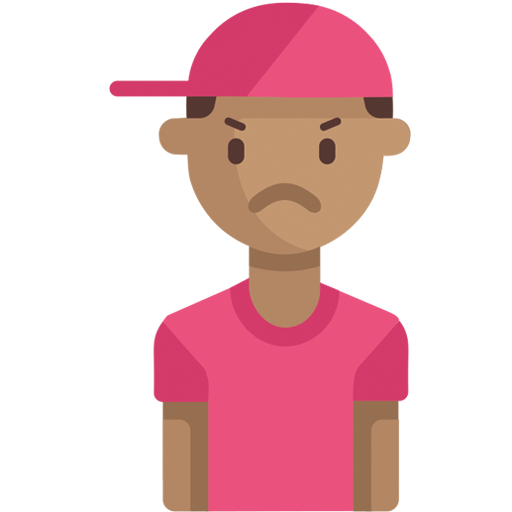
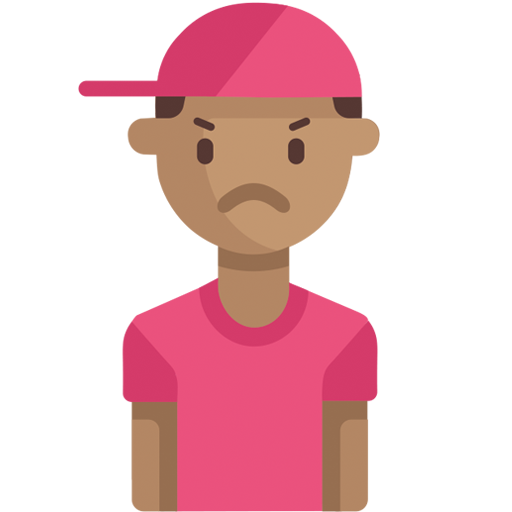
Slight changes like player images and board size

Changed region(s): [[0.2188, 0.0, 0.8125, 1.0], [0.1562, 0.1562, 0.2188, 0.1875]]

diff --git a/assets/css/game.css b/assets/css/game.css
@@ -7,6 +7,7 @@
 /* GENERAL STYLES */
 body{
   background-color: #dff9fb;
+  overflow-x: hidden;
 }
 
 h1, h2, p{
@@ -19,14 +20,16 @@ h1, h2, p{
   width: 100vw;
 }
 
-.left, .mid, .right{
+.player-info, .mid{
   height: 100vh;
+  min-height: 750px; /* Because the board will never be less high than 750px; */
 }
 
 /* PLAYER WEAPON */
 
 .player-weapon{
-  height: 300px;
+  width: 100%;
+  height: 20%;
   display: flex;
   justify-content: center;
   align-items: center;
@@ -48,7 +51,7 @@ h1, h2, p{
 /* PLAYER ACTIONS */
 
 .player-actions{
-  height: 150px;
+  height: 15%;
   display: flex;
   justify-content: center;
   align-items: center;
@@ -57,15 +60,16 @@ h1, h2, p{
 /* PLAYER HEALTH */
 
 .player-health{
-  height: 75px;
+  height: 15%;
   display: flex;
   justify-content: center;
+  overflow: hidden;
 }
 
 .progress{
   margin-top: 10px;
   height: 20px;
-  width: 100%;
+  max-width: 100%;
   max-width: 200px;
 }
 
@@ -76,55 +80,72 @@ h1, h2, p{
 }
 
 /* PLAYER IMAGES */
-
-.son, .daughter{
+.player-image{
+  max-width: 100%;
+  overflow: hidden;
   position: absolute;
   bottom: 0;
 }
 
-.son img, .daughter img{
+.player-image img{
   width: 100%;
   max-width: 400px;
   z-index: -1;
+  margin: 0 auto;
 }
 
 @media screen and (max-height: 750px) {
-  .son img, .daughter img{
-    opacity: 0.3;
+  .player-weapon{
+    height: 20%;
+  }
+
+  .player-actions{
+    height: 20%;
+  }
+
+  .player-health{
+    height: 30%;
   }
 }
 
 /* GAME BOARD */
 .mid{
-  display: flex;
-  align-items: center;
-  justify-content: center;
+
 }
 
 .board{
-  height: 750px;
-  width: 750px;
+  width: 100%;
+  max-width: 750px;
   padding: 10px;
+  margin: 50px auto;
   border: 5px solid #7f5122;
 }
 
 .board-row{
   display: flex;
   justify-content: space-between;
-  height: 10%;
 }
 
 .col{
   border: 1px solid #e9e9e9;
   width: 10%;
-  height: 100%;
   display: inline-block;
 }
 
 /* COL STATES */
 .empty{} /* TODO:  */
-.player1{} /* TODO:  */
-.player2{} /* TODO:  */
+.blocked{} /* TODO:  */
+.player1{
+  background-image: url(../../media/game/players/player1.png);
+  background-size: cover;
+  background-color: rgba(235, 82, 125, .3);
+}
+
+.player2{
+  background-image: url(../../media/game/players/player2.png);
+  background-size: cover;
+  background-color: rgba(152, 214, 235, .6);
+}
 
 .player1-next{
   background-color: rgba(235, 82, 125, .3);
@@ -159,6 +180,10 @@ h1, h2, p{
 .weapon-towel{
   background-image: url(../../media/game/weapons/towel.png);
   background-size: cover;
+}
+
+.obstacle{
+  background-color: rgba(235, 82, 125, 1);
 }
 
 .obstacle-baby{

diff --git a/game.html b/game.html
@@ -15,7 +15,7 @@
     <div class="game-wrapper">
       <div class="container-fluid">
         <div class="row">
-          <div class="col-xs-3 left">
+          <div class="col-xs-3 player-info">
             <div class="player-weapon">
               <div class="player-weapon-container">
                 <div id="player1-weapon-image"></div>
@@ -39,8 +39,8 @@
               </div>
             </div>
 
-            <div class="son">
-              <img src="media/landing-page/son-angry.png" alt="">
+            <div class="player-image">
+              <center><img src="media/landing-page/son-angry.png" alt=""></center>
             </div>
           </div>
 
@@ -63,7 +63,7 @@
                 <div class="col obstacle-baby"></div>
                 <div class="col obstacle-closet"></div>
                 <div class="col obstacle-washing"></div>
-                <div class="col"></div>
+                <div class="col obstacle"></div>
                 <div class="col"></div>
                 <div class="col"></div>
                 <div class="col"></div>
@@ -72,8 +72,8 @@
                 <div class="col"></div>
               </div>
               <div class="board-row">
-                <div class="col"></div>
-                <div class="col"></div>
+                <div class="col player1"></div>
+                <div class="col player2"></div>
                 <div class="col"></div>
                 <div class="col"></div>
                 <div class="col"></div>
@@ -171,7 +171,7 @@
             </div>
           </div>
 
-          <div class="col-xs-3 right">
+          <div class="col-xs-3 player-info">
             <div class="player-weapon">
               <div class="player-weapon-container">
                 <div id="player2-weapon-image"></div>
@@ -195,8 +195,8 @@
               </div>
             </div>
 
-            <div class="son">
-              <img src="media/landing-page/daughter-angry.png" alt="">
+            <div class="player-image">
+              <center><img src="media/landing-page/daughter-angry.png" alt="" id></center>
             </div>
           </div>
         </div>
@@ -205,5 +205,6 @@
     </div>
     <!-- SCRIPTS -->
     <script src="https://ajax.googleapis.com/ajax/libs/jquery/3.2.1/jquery.min.js" charset="utf-8"></script>
+    <script src="assets/js/playBoardStyle.js" charset="utf-8"></script>
   </body>
 </html>

diff --git a/assets/js/playBoardStyle.js b/assets/js/playBoardStyle.js
@@ -1,0 +1,7 @@
+  $(document).ready(function(){
+    $('.col').height($('.col').width());
+
+    $(window).resize(function(){
+     $('.col').height($('.col').width());
+    })
+  })
